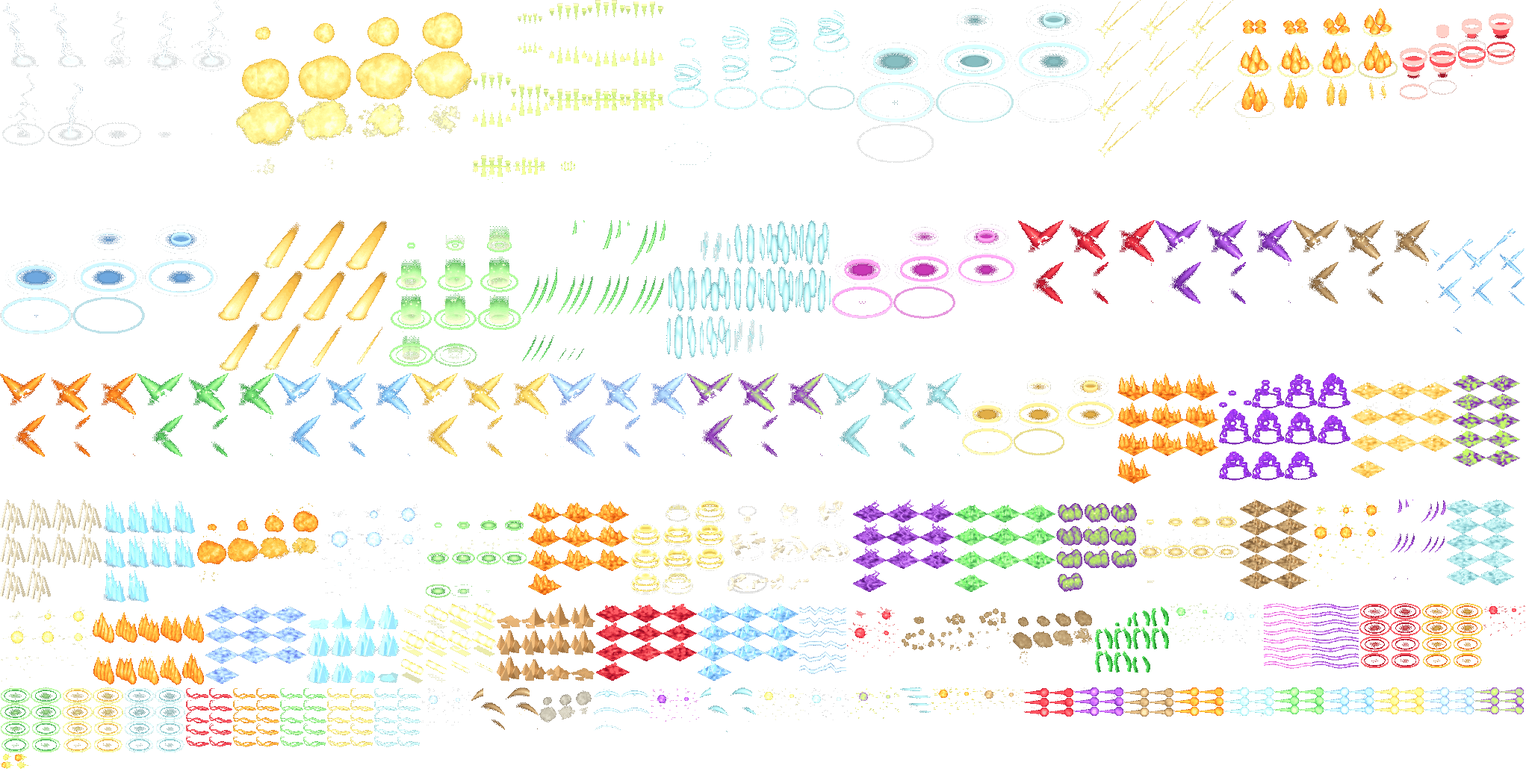
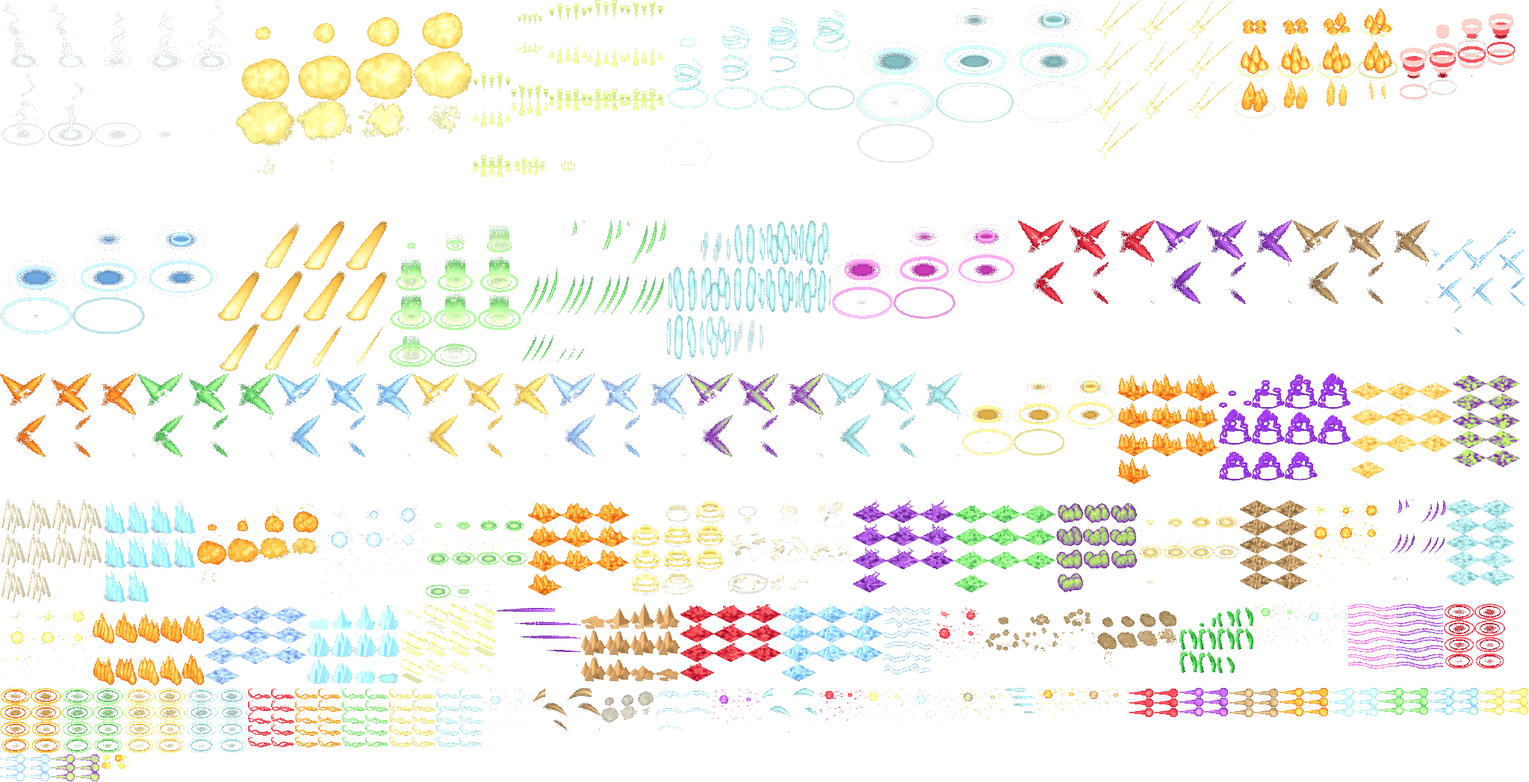
A blink that strikes: its rendered streak, fitted to the hop, and the crossed cut on the foe
Claude-Session: https://claude.ai/code/session_01RRJtWnKv3aqtC5Z8HqXpVz

diff --git a/src/render/blenderFxData.ts b/src/render/blenderFxData.ts
@@ -7,27 +7,27 @@ import type { BfxClip } from './blenderFxRules';
 export const BFX_DENSITY = 45;
 export const BFX_GLOW_SHRINK = 4;
 /** The hard pixel atlases' sizes, then the soft glow atlases' (`px-<n>.webp`, `soft-<n>.webp`). */
-export const BFX_PX: readonly (readonly [number, number])[] = [[2045, 2045], [2043, 1041], [1208, 1240], [1076, 1140], [938, 563], [990, 978], [364, 451], [935, 806], [1900, 1768], [1016, 691], [994, 778], [316, 280], [1016, 1019], [837, 717], [913, 1022], [923, 937], [1005, 700], [1176, 1280], [1164, 996], [873, 563], [1008, 1200], [1156, 1128], [979, 716], [1018, 822], [987, 641], [1023, 821], [919, 810], [874, 926], [277, 220], [754, 896], [991, 893], [983, 907], [919, 509], [817, 817], [918, 856], [980, 813], [802, 799], [842, 1009], [991, 950], [689, 569], [1065, 954], [881, 584], [976, 1003], [286, 217], [1023, 809], [605, 505], [987, 993], [286, 196], [977, 957], [781, 906], [451, 430], [781, 941], [802, 644], [1010, 846], [906, 993], [1076, 1048], [980, 738], [935, 994], [824, 496], [1328, 1540], [974, 954], [891, 782], [325, 274], [982, 895], [253, 220], [982, 936], [992, 776], [1280, 1100], [888, 926], [999, 809], [1020, 1011], [813, 223], [1018, 1022], [427, 136], [1024, 1018], [650, 226], [1016, 1015], [373, 145], [1019, 991], [443, 148], [1013, 1020], [358, 213], [1015, 1018], [357, 124], [1003, 1006], [960, 208], [1021, 1023], [424, 145], [1001, 1008], [650, 226], [136, 112]];
+export const BFX_PX: readonly (readonly [number, number])[] = [[2045, 2045], [2047, 1047], [1208, 1240], [1076, 1140], [938, 563], [990, 978], [364, 451], [935, 806], [1900, 1768], [1016, 691], [994, 778], [316, 280], [1016, 1019], [837, 717], [913, 1022], [923, 937], [1005, 700], [1176, 1280], [1164, 996], [873, 563], [1008, 1200], [1156, 1128], [979, 716], [1018, 822], [987, 641], [1023, 821], [919, 810], [874, 926], [277, 220], [754, 896], [991, 893], [983, 907], [919, 509], [817, 817], [918, 856], [980, 813], [802, 799], [842, 1009], [991, 950], [689, 569], [1065, 954], [881, 584], [976, 1003], [286, 217], [1023, 809], [605, 505], [987, 993], [286, 196], [977, 957], [781, 906], [451, 430], [781, 941], [802, 644], [1010, 846], [906, 993], [1076, 1048], [980, 738], [935, 994], [824, 496], [1328, 1540], [974, 954], [891, 782], [325, 274], [982, 895], [253, 220], [982, 936], [992, 776], [1280, 1100], [888, 926], [999, 809], [1020, 1011], [813, 223], [1018, 1022], [427, 136], [1024, 1018], [650, 226], [1016, 1015], [373, 145], [1019, 991], [443, 148], [1013, 1020], [358, 213], [1015, 1018], [357, 124], [1003, 1006], [960, 208], [1021, 1023], [424, 145], [1001, 1008], [650, 226], [136, 112]];
 export const BFX_SOFT: readonly (readonly [number, number])[] = [[2045, 1439]];
 /** The pixel atlases every fight may need (the spells, the ground loops): loaded up front. The rest are loaded when a fight needs them. */
 export const BFX_CORE: readonly number[] = [0, 1];
 
 export const BFX_CLIPS: Readonly<Record<string, BfxClip>> = {
-  'arc-bolt': {"a": 1, "x": 1070, "y": 808, "w": 63, "h": 16, "n": 6, "cols": 1, "ax": 31.5, "ay": 8.4, "ms": 420, "loop": true, "hold": 0, "layer": "over", "el": "lightning"},
-  'arc-charm': {"a": 1, "x": 1692, "y": 808, "w": 63, "h": 11, "n": 8, "cols": 1, "ax": 31.5, "ay": 5.4, "ms": 640, "loop": true, "hold": 0, "layer": "over", "el": "arcane"},
-  'arc-hex': {"a": 1, "x": 1756, "y": 808, "w": 63, "h": 11, "n": 8, "cols": 1, "ax": 31.5, "ay": 5.4, "ms": 640, "loop": true, "hold": 0, "layer": "over", "el": "shadow"},
+  'arc-bolt': {"a": 1, "x": 1183, "y": 808, "w": 63, "h": 16, "n": 6, "cols": 1, "ax": 31.5, "ay": 8.4, "ms": 420, "loop": true, "hold": 0, "layer": "over", "el": "lightning"},
+  'arc-charm': {"a": 1, "x": 1805, "y": 808, "w": 63, "h": 11, "n": 8, "cols": 1, "ax": 31.5, "ay": 5.4, "ms": 640, "loop": true, "hold": 0, "layer": "over", "el": "arcane"},
+  'arc-hex': {"a": 1, "x": 1869, "y": 808, "w": 63, "h": 11, "n": 8, "cols": 1, "ax": 31.5, "ay": 5.4, "ms": 640, "loop": true, "hold": 0, "layer": "over", "el": "shadow"},
   'aura-eclipse': {"a": 0, "x": 501, "y": 556, "w": 93, "h": 146, "n": 10, "cols": 4, "ax": 48.0, "ay": 123.8, "ms": 1200, "loop": true, "hold": 0, "layer": "over", "el": "shadow"},
-  'aura-pool-blood': {"a": 1, "x": 1820, "y": 808, "w": 41, "h": 22, "n": 8, "cols": 2, "ax": 20.5, "ay": 12.0, "ms": 1600, "loop": true, "hold": 0, "layer": "ground", "el": "blood"},
-  'aura-pool-fire': {"a": 1, "x": 1903, "y": 808, "w": 41, "h": 22, "n": 8, "cols": 2, "ax": 20.5, "ay": 12.0, "ms": 1600, "loop": true, "hold": 0, "layer": "ground", "el": "fire"},
-  'aura-pool-forest': {"a": 1, "x": 0, "y": 921, "w": 41, "h": 22, "n": 8, "cols": 2, "ax": 20.5, "ay": 12.0, "ms": 1600, "loop": true, "hold": 0, "layer": "ground", "el": "forest"},
-  'aura-pool-light': {"a": 1, "x": 83, "y": 921, "w": 41, "h": 22, "n": 8, "cols": 2, "ax": 20.5, "ay": 12.0, "ms": 1600, "loop": true, "hold": 0, "layer": "ground", "el": "holy"},
-  'aura-pool-wind': {"a": 1, "x": 166, "y": 921, "w": 41, "h": 22, "n": 8, "cols": 2, "ax": 20.5, "ay": 12.0, "ms": 1600, "loop": true, "hold": 0, "layer": "ground", "el": "wind"},
+  'aura-pool-blood': {"a": 1, "x": 1933, "y": 808, "w": 41, "h": 22, "n": 8, "cols": 2, "ax": 20.5, "ay": 12.0, "ms": 1600, "loop": true, "hold": 0, "layer": "ground", "el": "blood"},
+  'aura-pool-fire': {"a": 1, "x": 0, "y": 921, "w": 41, "h": 22, "n": 8, "cols": 2, "ax": 20.5, "ay": 12.0, "ms": 1600, "loop": true, "hold": 0, "layer": "ground", "el": "fire"},
+  'aura-pool-forest': {"a": 1, "x": 83, "y": 921, "w": 41, "h": 22, "n": 8, "cols": 2, "ax": 20.5, "ay": 12.0, "ms": 1600, "loop": true, "hold": 0, "layer": "ground", "el": "forest"},
+  'aura-pool-light': {"a": 1, "x": 166, "y": 921, "w": 41, "h": 22, "n": 8, "cols": 2, "ax": 20.5, "ay": 12.0, "ms": 1600, "loop": true, "hold": 0, "layer": "ground", "el": "holy"},
+  'aura-pool-wind': {"a": 1, "x": 249, "y": 921, "w": 41, "h": 22, "n": 8, "cols": 2, "ax": 20.5, "ay": 12.0, "ms": 1600, "loop": true, "hold": 0, "layer": "ground", "el": "wind"},
   'aura-spirits': {"a": 0, "x": 439, "y": 0, "w": 145, "h": 136, "n": 12, "cols": 3, "ax": 72.0, "ay": 116.4, "ms": 1300, "loop": true, "hold": 0, "layer": "over", "el": "wind"},
-  'aura-wisp-blood': {"a": 1, "x": 249, "y": 921, "w": 31, "h": 16, "n": 10, "cols": 2, "ax": 11.0, "ay": 21.0, "ms": 800, "loop": true, "hold": 0, "layer": "over", "el": "blood"},
-  'aura-wisp-fire': {"a": 1, "x": 312, "y": 921, "w": 31, "h": 16, "n": 10, "cols": 2, "ax": 11.0, "ay": 21.0, "ms": 800, "loop": true, "hold": 0, "layer": "over", "el": "fire"},
-  'aura-wisp-forest': {"a": 1, "x": 375, "y": 921, "w": 31, "h": 16, "n": 10, "cols": 2, "ax": 11.0, "ay": 21.0, "ms": 800, "loop": true, "hold": 0, "layer": "over", "el": "forest"},
-  'aura-wisp-light': {"a": 1, "x": 438, "y": 921, "w": 31, "h": 16, "n": 10, "cols": 2, "ax": 11.0, "ay": 21.0, "ms": 800, "loop": true, "hold": 0, "layer": "over", "el": "holy"},
-  'aura-wisp-wind': {"a": 1, "x": 501, "y": 921, "w": 31, "h": 16, "n": 10, "cols": 2, "ax": 11.0, "ay": 21.0, "ms": 800, "loop": true, "hold": 0, "layer": "over", "el": "wind"},
+  'aura-wisp-blood': {"a": 1, "x": 332, "y": 921, "w": 31, "h": 16, "n": 10, "cols": 2, "ax": 11.0, "ay": 21.0, "ms": 800, "loop": true, "hold": 0, "layer": "over", "el": "blood"},
+  'aura-wisp-fire': {"a": 1, "x": 395, "y": 921, "w": 31, "h": 16, "n": 10, "cols": 2, "ax": 11.0, "ay": 21.0, "ms": 800, "loop": true, "hold": 0, "layer": "over", "el": "fire"},
+  'aura-wisp-forest': {"a": 1, "x": 458, "y": 921, "w": 31, "h": 16, "n": 10, "cols": 2, "ax": 11.0, "ay": 21.0, "ms": 800, "loop": true, "hold": 0, "layer": "over", "el": "forest"},
+  'aura-wisp-light': {"a": 1, "x": 521, "y": 921, "w": 31, "h": 16, "n": 10, "cols": 2, "ax": 11.0, "ay": 21.0, "ms": 800, "loop": true, "hold": 0, "layer": "over", "el": "holy"},
+  'aura-wisp-wind': {"a": 1, "x": 584, "y": 921, "w": 31, "h": 16, "n": 10, "cols": 2, "ax": 11.0, "ay": 21.0, "ms": 800, "loop": true, "hold": 0, "layer": "over", "el": "wind"},
   'beat-appear-blood': {"a": 89, "x": 424, "y": 0, "w": 75, "h": 68, "n": 9, "cols": 3, "ax": 37.5, "ay": 48.3, "ms": 450, "loop": false, "hold": 4, "layer": "over", "el": "blood"},
   'beat-appear-dark': {"a": 78, "x": 386, "y": 774, "w": 75, "h": 65, "n": 9, "cols": 3, "ax": 37.5, "ay": 45.3, "ms": 450, "loop": false, "hold": 4, "layer": "over", "el": "shadow"},
   'beat-appear-earth': {"a": 85, "x": 0, "y": 0, "w": 75, "h": 69, "n": 9, "cols": 3, "ax": 37.5, "ay": 49.3, "ms": 450, "loop": false, "hold": 4, "layer": "over", "el": "earth"},
@@ -193,33 +193,33 @@ export const BFX_CLIPS: Readonly<Record<string, BfxClip>> = {
   'beat-snare-poison': {"a": 82, "x": 834, "y": 810, "w": 39, "h": 48, "n": 10, "cols": 4, "ax": 20.0, "ay": 35.7, "ms": 600, "loop": false, "hold": 6, "layer": "over", "el": "poison"},
   'beat-snare-wind': {"a": 87, "x": 0, "y": 0, "w": 38, "h": 48, "n": 10, "cols": 4, "ax": 19.0, "ay": 35.7, "ms": 600, "loop": false, "hold": 4, "layer": "over", "el": "wind"},
   'beat-tunnel': {"a": 84, "x": 334, "y": 852, "w": 41, "h": 49, "n": 9, "cols": 4, "ax": 20.5, "ay": 34.9, "ms": 520, "loop": false, "hold": 3, "layer": "over", "el": "earth"},
-  'death-blood': {"a": 1, "x": 1134, "y": 808, "w": 35, "h": 24, "n": 7, "cols": 2, "ax": 17.5, "ay": 28.4, "ms": 420, "loop": false, "hold": 2, "layer": "over", "el": "blood"},
-  'death-bones': {"a": 1, "x": 722, "y": 921, "w": 24, "h": 24, "n": 8, "cols": 3, "ax": 9.5, "ay": 22.6, "ms": 560, "loop": false, "hold": 3, "layer": "over", "el": "bone"},
+  'death-blood': {"a": 1, "x": 1247, "y": 808, "w": 35, "h": 24, "n": 7, "cols": 2, "ax": 17.5, "ay": 28.4, "ms": 420, "loop": false, "hold": 2, "layer": "over", "el": "blood"},
+  'death-bones': {"a": 1, "x": 805, "y": 921, "w": 24, "h": 24, "n": 8, "cols": 3, "ax": 9.5, "ay": 22.6, "ms": 560, "loop": false, "hold": 3, "layer": "over", "el": "bone"},
   'death-burn': {"a": 1, "x": 262, "y": 669, "w": 42, "h": 44, "n": 10, "cols": 4, "ax": 22.5, "ay": 48.5, "ms": 700, "loop": false, "hold": 5, "layer": "over", "el": "fire"},
   'death-light': {"a": 1, "x": 1523, "y": 669, "w": 34, "h": 40, "n": 10, "cols": 4, "ax": 17.0, "ay": 31.0, "ms": 900, "loop": false, "hold": 5, "layer": "over", "el": "holy"},
   'death-stone': {"a": 1, "x": 973, "y": 669, "w": 56, "h": 42, "n": 9, "cols": 3, "ax": 27.5, "ay": 29.4, "ms": 600, "loop": false, "hold": 4, "layer": "over", "el": "bone"},
-  'death-thud': {"a": 1, "x": 1205, "y": 808, "w": 50, "h": 32, "n": 9, "cols": 3, "ax": 25.5, "ay": 26.0, "ms": 620, "loop": false, "hold": 3, "layer": "over", "el": "earth"},
-  'ground-blood': {"a": 1, "x": 798, "y": 808, "w": 45, "h": 26, "n": 10, "cols": 3, "ax": 22.0, "ay": 15.3, "ms": 950, "loop": true, "hold": 0, "layer": "over", "el": "blood"},
+  'death-thud': {"a": 1, "x": 1318, "y": 808, "w": 50, "h": 32, "n": 9, "cols": 3, "ax": 25.5, "ay": 26.0, "ms": 620, "loop": false, "hold": 3, "layer": "over", "el": "earth"},
+  'ground-blood': {"a": 1, "x": 911, "y": 808, "w": 45, "h": 26, "n": 10, "cols": 3, "ax": 22.0, "ay": 15.3, "ms": 950, "loop": true, "hold": 0, "layer": "over", "el": "blood"},
   'ground-dark': {"a": 1, "x": 1142, "y": 669, "w": 45, "h": 31, "n": 10, "cols": 3, "ax": 22.0, "ay": 20.3, "ms": 950, "loop": true, "hold": 0, "layer": "over", "el": "shadow"},
   'ground-earth': {"a": 1, "x": 1660, "y": 669, "w": 45, "h": 24, "n": 10, "cols": 2, "ax": 22.0, "ay": 13.3, "ms": 950, "loop": true, "hold": 0, "layer": "over", "el": "earth"},
   'ground-fire': {"a": 1, "x": 707, "y": 669, "w": 45, "h": 32, "n": 10, "cols": 3, "ax": 22.0, "ay": 21.3, "ms": 950, "loop": true, "hold": 0, "layer": "over", "el": "fire"},
   'ground-forest': {"a": 1, "x": 1278, "y": 669, "w": 45, "h": 31, "n": 10, "cols": 3, "ax": 22.0, "ay": 20.3, "ms": 950, "loop": true, "hold": 0, "layer": "over", "el": "forest"},
-  'ground-ice': {"a": 1, "x": 934, "y": 808, "w": 45, "h": 26, "n": 10, "cols": 3, "ax": 22.0, "ay": 15.3, "ms": 950, "loop": true, "hold": 0, "layer": "over", "el": "ice"},
+  'ground-ice': {"a": 1, "x": 1047, "y": 808, "w": 45, "h": 26, "n": 10, "cols": 3, "ax": 22.0, "ay": 15.3, "ms": 950, "loop": true, "hold": 0, "layer": "over", "el": "ice"},
   'ground-light': {"a": 1, "x": 1809, "y": 500, "w": 45, "h": 35, "n": 10, "cols": 3, "ax": 22.0, "ay": 24.3, "ms": 950, "loop": true, "hold": 0, "layer": "over", "el": "holy", "g": {"a": 0, "x": 1794, "y": 1303, "w": 15, "h": 17, "cols": 4, "ax": 7.25, "ay": 12.58}},
   'ground-lightning': {"a": 1, "x": 275, "y": 808, "w": 45, "h": 27, "n": 10, "cols": 3, "ax": 22.0, "ay": 16.3, "ms": 950, "loop": true, "hold": 0, "layer": "over", "el": "lightning", "g": {"a": 0, "x": 1856, "y": 1303, "w": 15, "h": 17, "cols": 4, "ax": 7.25, "ay": 12.58}},
   'ground-poison': {"a": 1, "x": 1945, "y": 500, "w": 45, "h": 25, "n": 10, "cols": 2, "ax": 22.0, "ay": 14.3, "ms": 950, "loop": true, "hold": 0, "layer": "over", "el": "poison"},
   'ground-wind': {"a": 1, "x": 1937, "y": 669, "w": 45, "h": 23, "n": 10, "cols": 2, "ax": 22.0, "ay": 12.3, "ms": 950, "loop": true, "hold": 0, "layer": "over", "el": "wind"},
-  'hit-block': {"a": 1, "x": 795, "y": 921, "w": 37, "h": 23, "n": 6, "cols": 2, "ax": 18.0, "ay": 26.3, "ms": 220, "loop": false, "hold": 1, "layer": "over", "el": "ice"},
-  'hit-blow-blood': {"a": 1, "x": 1986, "y": 808, "w": 28, "h": 22, "n": 6, "cols": 2, "ax": 13.0, "ay": 23.3, "ms": 220, "loop": false, "hold": 1, "layer": "over", "el": "blood"},
-  'hit-blow-dark': {"a": 1, "x": 870, "y": 921, "w": 33, "h": 23, "n": 6, "cols": 2, "ax": 16.0, "ay": 29.3, "ms": 220, "loop": false, "hold": 1, "layer": "over", "el": "shadow"},
-  'hit-blow-earth': {"a": 1, "x": 1310, "y": 921, "w": 30, "h": 15, "n": 6, "cols": 2, "ax": 14.0, "ay": 23.3, "ms": 220, "loop": false, "hold": 1, "layer": "over", "el": "earth"},
-  'hit-blow-fire': {"a": 1, "x": 1247, "y": 921, "w": 31, "h": 19, "n": 6, "cols": 2, "ax": 16.0, "ay": 22.3, "ms": 220, "loop": false, "hold": 1, "layer": "over", "el": "fire"},
-  'hit-blow-forest': {"a": 1, "x": 1566, "y": 808, "w": 32, "h": 30, "n": 6, "cols": 2, "ax": 15.0, "ay": 25.3, "ms": 220, "loop": false, "hold": 1, "layer": "over", "el": "forest"},
-  'hit-blow-ice': {"a": 1, "x": 1631, "y": 808, "w": 30, "h": 30, "n": 6, "cols": 2, "ax": 15.0, "ay": 31.3, "ms": 220, "loop": false, "hold": 1, "layer": "over", "el": "ice"},
-  'hit-blow-light': {"a": 1, "x": 1014, "y": 921, "w": 31, "h": 22, "n": 6, "cols": 2, "ax": 15.0, "ay": 25.3, "ms": 220, "loop": false, "hold": 1, "layer": "over", "el": "holy"},
-  'hit-blow-lightning': {"a": 1, "x": 564, "y": 921, "w": 33, "h": 26, "n": 6, "cols": 2, "ax": 16.0, "ay": 30.3, "ms": 220, "loop": false, "hold": 1, "layer": "over", "el": "lightning"},
-  'hit-blow-poison': {"a": 1, "x": 1138, "y": 921, "w": 33, "h": 21, "n": 6, "cols": 2, "ax": 18.0, "ay": 26.3, "ms": 220, "loop": false, "hold": 1, "layer": "over", "el": "poison"},
-  'hit-blow-wind': {"a": 1, "x": 1077, "y": 921, "w": 30, "h": 22, "n": 6, "cols": 2, "ax": 16.0, "ay": 29.3, "ms": 220, "loop": false, "hold": 1, "layer": "over", "el": "wind"},
+  'hit-block': {"a": 1, "x": 878, "y": 921, "w": 37, "h": 23, "n": 6, "cols": 2, "ax": 18.0, "ay": 26.3, "ms": 220, "loop": false, "hold": 1, "layer": "over", "el": "ice"},
+  'hit-blow-blood': {"a": 1, "x": 1097, "y": 921, "w": 28, "h": 22, "n": 6, "cols": 2, "ax": 13.0, "ay": 23.3, "ms": 220, "loop": false, "hold": 1, "layer": "over", "el": "blood"},
+  'hit-blow-dark': {"a": 1, "x": 953, "y": 921, "w": 33, "h": 23, "n": 6, "cols": 2, "ax": 16.0, "ay": 29.3, "ms": 220, "loop": false, "hold": 1, "layer": "over", "el": "shadow"},
+  'hit-blow-earth': {"a": 1, "x": 1450, "y": 921, "w": 30, "h": 15, "n": 6, "cols": 2, "ax": 14.0, "ay": 23.3, "ms": 220, "loop": false, "hold": 1, "layer": "over", "el": "earth"},
+  'hit-blow-fire': {"a": 1, "x": 1387, "y": 921, "w": 31, "h": 19, "n": 6, "cols": 2, "ax": 16.0, "ay": 22.3, "ms": 220, "loop": false, "hold": 1, "layer": "over", "el": "fire"},
+  'hit-blow-forest': {"a": 1, "x": 1679, "y": 808, "w": 32, "h": 30, "n": 6, "cols": 2, "ax": 15.0, "ay": 25.3, "ms": 220, "loop": false, "hold": 1, "layer": "over", "el": "forest"},
+  'hit-blow-ice': {"a": 1, "x": 1744, "y": 808, "w": 30, "h": 30, "n": 6, "cols": 2, "ax": 15.0, "ay": 31.3, "ms": 220, "loop": false, "hold": 1, "layer": "over", "el": "ice"},
+  'hit-blow-light': {"a": 1, "x": 1154, "y": 921, "w": 31, "h": 22, "n": 6, "cols": 2, "ax": 15.0, "ay": 25.3, "ms": 220, "loop": false, "hold": 1, "layer": "over", "el": "holy"},
+  'hit-blow-lightning': {"a": 1, "x": 647, "y": 921, "w": 33, "h": 26, "n": 6, "cols": 2, "ax": 16.0, "ay": 30.3, "ms": 220, "loop": false, "hold": 1, "layer": "over", "el": "lightning"},
+  'hit-blow-poison': {"a": 1, "x": 1278, "y": 921, "w": 33, "h": 21, "n": 6, "cols": 2, "ax": 18.0, "ay": 26.3, "ms": 220, "loop": false, "hold": 1, "layer": "over", "el": "poison"},
+  'hit-blow-wind': {"a": 1, "x": 1217, "y": 921, "w": 30, "h": 22, "n": 6, "cols": 2, "ax": 16.0, "ay": 29.3, "ms": 220, "loop": false, "hold": 1, "layer": "over", "el": "wind"},
   'hit-cut-blood': {"a": 1, "x": 1363, "y": 295, "w": 61, "h": 56, "n": 7, "cols": 3, "ax": 30.0, "ay": 46.1, "ms": 280, "loop": false, "hold": 1, "layer": "over", "el": "blood"},
   'hit-cut-dark': {"a": 1, "x": 1547, "y": 295, "w": 61, "h": 56, "n": 7, "cols": 3, "ax": 30.0, "ay": 46.1, "ms": 280, "loop": false, "hold": 1, "layer": "over", "el": "shadow"},
   'hit-cut-earth': {"a": 1, "x": 1731, "y": 295, "w": 61, "h": 56, "n": 7, "cols": 3, "ax": 30.0, "ay": 46.1, "ms": 280, "loop": false, "hold": 1, "layer": "over", "el": "earth"},
@@ -230,17 +230,17 @@ export const BFX_CLIPS: Readonly<Record<string, BfxClip>> = {
   'hit-cut-lightning': {"a": 1, "x": 736, "y": 500, "w": 61, "h": 56, "n": 7, "cols": 3, "ax": 30.0, "ay": 46.1, "ms": 280, "loop": false, "hold": 1, "layer": "over", "el": "lightning"},
   'hit-cut-poison': {"a": 1, "x": 920, "y": 500, "w": 61, "h": 56, "n": 7, "cols": 3, "ax": 30.0, "ay": 46.1, "ms": 280, "loop": false, "hold": 1, "layer": "over", "el": "poison"},
   'hit-cut-wind': {"a": 1, "x": 1104, "y": 500, "w": 61, "h": 56, "n": 7, "cols": 3, "ax": 30.0, "ay": 46.1, "ms": 280, "loop": false, "hold": 1, "layer": "over", "el": "wind"},
-  'shot-muzzle': {"a": 1, "x": 0, "y": 1010, "w": 19, "h": 10, "n": 6, "cols": 2, "ax": 3.5, "ay": 13.4, "ms": 200, "loop": false, "hold": 1, "layer": "over", "el": "fire"},
-  'shot-orb-blood': {"a": 1, "x": 1371, "y": 921, "w": 33, "h": 13, "n": 6, "cols": 2, "ax": 27.0, "ay": 7.0, "ms": 420, "loop": true, "hold": 0, "layer": "over", "el": "blood"},
-  'shot-orb-dark': {"a": 1, "x": 1438, "y": 921, "w": 33, "h": 13, "n": 6, "cols": 2, "ax": 27.0, "ay": 6.0, "ms": 420, "loop": true, "hold": 0, "layer": "over", "el": "shadow"},
-  'shot-orb-earth': {"a": 1, "x": 1505, "y": 921, "w": 33, "h": 13, "n": 6, "cols": 2, "ax": 27.0, "ay": 7.0, "ms": 420, "loop": true, "hold": 0, "layer": "over", "el": "earth"},
-  'shot-orb-fire': {"a": 1, "x": 1572, "y": 921, "w": 33, "h": 13, "n": 6, "cols": 2, "ax": 27.0, "ay": 6.0, "ms": 420, "loop": true, "hold": 0, "layer": "over", "el": "fire"},
-  'shot-orb-forest': {"a": 1, "x": 1706, "y": 921, "w": 33, "h": 12, "n": 6, "cols": 2, "ax": 27.0, "ay": 6.0, "ms": 420, "loop": true, "hold": 0, "layer": "over", "el": "forest"},
-  'shot-orb-ice': {"a": 1, "x": 1773, "y": 921, "w": 33, "h": 12, "n": 6, "cols": 2, "ax": 27.0, "ay": 6.0, "ms": 420, "loop": true, "hold": 0, "layer": "over", "el": "ice"},
-  'shot-orb-light': {"a": 1, "x": 1840, "y": 921, "w": 33, "h": 12, "n": 6, "cols": 2, "ax": 27.0, "ay": 6.0, "ms": 420, "loop": true, "hold": 0, "layer": "over", "el": "holy"},
-  'shot-orb-lightning': {"a": 1, "x": 1907, "y": 921, "w": 33, "h": 12, "n": 6, "cols": 2, "ax": 27.0, "ay": 6.0, "ms": 420, "loop": true, "hold": 0, "layer": "over", "el": "lightning"},
-  'shot-orb-poison': {"a": 1, "x": 1974, "y": 921, "w": 33, "h": 12, "n": 6, "cols": 2, "ax": 27.0, "ay": 6.0, "ms": 420, "loop": true, "hold": 0, "layer": "over", "el": "poison"},
-  'shot-orb-wind': {"a": 1, "x": 1639, "y": 921, "w": 33, "h": 13, "n": 6, "cols": 2, "ax": 27.0, "ay": 6.0, "ms": 420, "loop": true, "hold": 0, "layer": "over", "el": "wind"},
+  'shot-muzzle': {"a": 1, "x": 134, "y": 1010, "w": 19, "h": 10, "n": 6, "cols": 2, "ax": 3.5, "ay": 13.4, "ms": 200, "loop": false, "hold": 1, "layer": "over", "el": "fire"},
+  'shot-orb-blood': {"a": 1, "x": 1511, "y": 921, "w": 33, "h": 13, "n": 6, "cols": 2, "ax": 27.0, "ay": 7.0, "ms": 420, "loop": true, "hold": 0, "layer": "over", "el": "blood"},
+  'shot-orb-dark': {"a": 1, "x": 1578, "y": 921, "w": 33, "h": 13, "n": 6, "cols": 2, "ax": 27.0, "ay": 6.0, "ms": 420, "loop": true, "hold": 0, "layer": "over", "el": "shadow"},
+  'shot-orb-earth': {"a": 1, "x": 1645, "y": 921, "w": 33, "h": 13, "n": 6, "cols": 2, "ax": 27.0, "ay": 7.0, "ms": 420, "loop": true, "hold": 0, "layer": "over", "el": "earth"},
+  'shot-orb-fire': {"a": 1, "x": 1712, "y": 921, "w": 33, "h": 13, "n": 6, "cols": 2, "ax": 27.0, "ay": 6.0, "ms": 420, "loop": true, "hold": 0, "layer": "over", "el": "fire"},
+  'shot-orb-forest': {"a": 1, "x": 1846, "y": 921, "w": 33, "h": 12, "n": 6, "cols": 2, "ax": 27.0, "ay": 6.0, "ms": 420, "loop": true, "hold": 0, "layer": "over", "el": "forest"},
+  'shot-orb-ice': {"a": 1, "x": 1913, "y": 921, "w": 33, "h": 12, "n": 6, "cols": 2, "ax": 27.0, "ay": 6.0, "ms": 420, "loop": true, "hold": 0, "layer": "over", "el": "ice"},
+  'shot-orb-light': {"a": 1, "x": 1980, "y": 921, "w": 33, "h": 12, "n": 6, "cols": 2, "ax": 27.0, "ay": 6.0, "ms": 420, "loop": true, "hold": 0, "layer": "over", "el": "holy"},
+  'shot-orb-lightning': {"a": 1, "x": 0, "y": 1010, "w": 33, "h": 12, "n": 6, "cols": 2, "ax": 27.0, "ay": 6.0, "ms": 420, "loop": true, "hold": 0, "layer": "over", "el": "lightning"},
+  'shot-orb-poison': {"a": 1, "x": 67, "y": 1010, "w": 33, "h": 12, "n": 6, "cols": 2, "ax": 27.0, "ay": 6.0, "ms": 420, "loop": true, "hold": 0, "layer": "over", "el": "poison"},
+  'shot-orb-wind': {"a": 1, "x": 1779, "y": 921, "w": 33, "h": 13, "n": 6, "cols": 2, "ax": 27.0, "ay": 6.0, "ms": 420, "loop": true, "hold": 0, "layer": "over", "el": "wind"},
   'shot-tracer': {"a": 0, "x": 2011, "y": 556, "w": 33, "h": 5, "n": 6, "cols": 1, "ax": 30.5, "ay": 3.0, "ms": 420, "loop": true, "hold": 0, "layer": "over", "el": "holy"},
   'spell-blink-cast': {"a": 0, "x": 1785, "y": 0, "w": 58, "h": 68, "n": 14, "cols": 4, "ax": 28.5, "ay": 61.3, "ms": 980, "loop": false, "hold": 3, "layer": "over", "el": "arcane"},
   'spell-bonewall-stand': {"a": 1, "x": 0, "y": 669, "w": 34, "h": 46, "n": 10, "cols": 4, "ax": 17.0, "ay": 36.8, "ms": 900, "loop": true, "hold": 0, "layer": "over", "el": "bone"},
@@ -274,7 +274,7 @@ export const BFX_CLIPS: Readonly<Record<string, BfxClip>> = {
   'spell-poison-cast': {"a": 0, "x": 802, "y": 1784, "w": 65, "h": 62, "n": 12, "cols": 3, "ax": 25.0, "ay": 52.9, "ms": 780, "loop": false, "hold": 5, "layer": "over", "el": "poison"},
   'spell-poison-stand': {"a": 1, "x": 1414, "y": 669, "w": 36, "h": 31, "n": 10, "cols": 3, "ax": 15.0, "ay": 24.8, "ms": 900, "loop": true, "hold": 0, "layer": "over", "el": "poison"},
   'spell-quake-cast': {"a": 0, "x": 875, "y": 0, "w": 148, "h": 89, "n": 16, "cols": 3, "ax": 74.5, "ay": 53.5, "ms": 1200, "loop": false, "hold": 7, "layer": "ground", "el": "earth"},
-  'spell-quake-hit': {"a": 1, "x": 665, "y": 808, "w": 33, "h": 35, "n": 12, "cols": 4, "ax": 18.5, "ay": 24.9, "ms": 780, "loop": false, "hold": 4, "layer": "over", "el": "earth"},
+  'spell-quake-hit': {"a": 1, "x": 778, "y": 808, "w": 33, "h": 35, "n": 12, "cols": 4, "ax": 18.5, "ay": 24.9, "ms": 780, "loop": false, "hold": 4, "layer": "over", "el": "earth"},
   'spell-raisedead-cast': {"a": 0, "x": 1482, "y": 1021, "w": 95, "h": 93, "n": 14, "cols": 4, "ax": 47.5, "ay": 69.8, "ms": 980, "loop": false, "hold": 8, "layer": "over", "el": "shadow"},
   'spell-raisedead-hit': {"a": 0, "x": 1863, "y": 1418, "w": 59, "h": 56, "n": 12, "cols": 3, "ax": 29.5, "ay": 41.7, "ms": 780, "loop": false, "hold": 7, "layer": "over", "el": "shadow"},
   'spell-rally-cast': {"a": 0, "x": 1156, "y": 1418, "w": 143, "h": 75, "n": 12, "cols": 3, "ax": 71.0, "ay": 38.5, "ms": 780, "loop": false, "hold": 4, "layer": "ground", "el": "fire"},
@@ -290,7 +290,7 @@ export const BFX_CLIPS: Readonly<Record<string, BfxClip>> = {
   'spell-smite-cast': {"a": 1, "x": 1288, "y": 500, "w": 69, "h": 37, "n": 12, "cols": 3, "ax": 34.0, "ay": 19.0, "ms": 780, "loop": false, "hold": 3, "layer": "ground", "el": "holy", "g": {"a": 0, "x": 1529, "y": 1303, "w": 23, "h": 14, "cols": 3, "ax": 11.5, "ay": 6.75}},
   'spell-smite-hit': {"a": 0, "x": 0, "y": 0, "w": 73, "h": 185, "n": 14, "cols": 6, "ax": 36.5, "ay": 166.4, "ms": 980, "loop": false, "hold": 7, "layer": "over", "el": "holy", "g": {"a": 0, "x": 650, "y": 748, "w": 36, "h": 58, "cols": 5, "ax": 17.88, "ay": 47.35}},
   'spell-snare-cast': {"a": 0, "x": 1586, "y": 1418, "w": 69, "h": 74, "n": 14, "cols": 4, "ax": 31.0, "ay": 53.2, "ms": 980, "loop": false, "hold": 8, "layer": "over", "el": "forest"},
-  'spell-snare-hit': {"a": 1, "x": 1465, "y": 808, "w": 25, "h": 31, "n": 12, "cols": 4, "ax": 12.0, "ay": 24.1, "ms": 780, "loop": false, "hold": 7, "layer": "over", "el": "forest"},
+  'spell-snare-hit': {"a": 1, "x": 1578, "y": 808, "w": 25, "h": 31, "n": 12, "cols": 4, "ax": 12.0, "ay": 24.1, "ms": 780, "loop": false, "hold": 7, "layer": "over", "el": "forest"},
   'spell-starfall-fly': {"a": 1, "x": 1465, "y": 0, "w": 62, "h": 54, "n": 10, "cols": 3, "ax": 13.5, "ay": 39.4, "ms": 900, "loop": true, "hold": 0, "layer": "over", "el": "holy", "g": {"a": 0, "x": 1035, "y": 934, "w": 36, "h": 32, "cols": 3, "ax": 17.88, "ay": 21.84}},
   'spell-starfall-land': {"a": 1, "x": 316, "y": 0, "w": 79, "h": 67, "n": 14, "cols": 4, "ax": 34.5, "ay": 55.6, "ms": 980, "loop": false, "hold": 7, "layer": "over", "el": "holy", "g": {"a": 0, "x": 832, "y": 748, "w": 46, "h": 33, "cols": 3, "ax": 22.62, "ay": 19.9}},
   'spell-sunbeam-cast': {"a": 1, "x": 292, "y": 295, "w": 57, "h": 68, "n": 12, "cols": 4, "ax": 14.5, "ay": 59.9, "ms": 780, "loop": false, "hold": 6, "layer": "over", "el": "holy", "g": {"a": 0, "x": 206, "y": 748, "w": 48, "h": 44, "cols": 3, "ax": 23.62, "ay": 29.24}},
@@ -300,11 +300,12 @@ export const BFX_CLIPS: Readonly<Record<string, BfxClip>> = {
   'spell-warcry-cast': {"a": 0, "x": 719, "y": 1021, "w": 113, "h": 94, "n": 14, "cols": 4, "ax": 56.5, "ay": 77.6, "ms": 980, "loop": false, "hold": 6, "layer": "over", "el": "blood"},
   'spell-warcry-hit': {"a": 1, "x": 1873, "y": 0, "w": 39, "h": 53, "n": 12, "cols": 4, "ax": 19.5, "ay": 48.7, "ms": 780, "loop": false, "hold": 5, "layer": "over", "el": "blood"},
   'spell-wolves-cast': {"a": 1, "x": 699, "y": 295, "w": 48, "h": 63, "n": 12, "cols": 4, "ax": 22.5, "ay": 56.4, "ms": 780, "loop": false, "hold": 4, "layer": "over", "el": "forest"},
-  'spell-wolves-hit': {"a": 1, "x": 1356, "y": 808, "w": 27, "h": 32, "n": 12, "cols": 4, "ax": 15.0, "ay": 30.0, "ms": 780, "loop": false, "hold": 5, "layer": "over", "el": "earth"},
-  'swing-blade': {"a": 1, "x": 937, "y": 921, "w": 38, "h": 23, "n": 6, "cols": 2, "ax": 18.5, "ay": 23.5, "ms": 240, "loop": false, "hold": 1, "layer": "over", "el": "wind"},
+  'spell-wolves-hit': {"a": 1, "x": 1469, "y": 808, "w": 27, "h": 32, "n": 12, "cols": 4, "ax": 15.0, "ay": 30.0, "ms": 780, "loop": false, "hold": 5, "layer": "over", "el": "earth"},
+  'swing-blade': {"a": 1, "x": 1020, "y": 921, "w": 38, "h": 23, "n": 6, "cols": 2, "ax": 18.5, "ay": 23.5, "ms": 240, "loop": false, "hold": 1, "layer": "over", "el": "wind"},
   'swing-claw': {"a": 1, "x": 1854, "y": 669, "w": 41, "h": 40, "n": 6, "cols": 2, "ax": 21.5, "ay": 31.3, "ms": 260, "loop": false, "hold": 1, "layer": "over", "el": "shadow"},
-  'swing-heavy': {"a": 1, "x": 631, "y": 921, "w": 45, "h": 19, "n": 7, "cols": 2, "ax": 22.5, "ay": 26.2, "ms": 290, "loop": false, "hold": 1, "layer": "over", "el": "earth"},
-  'swing-thrust': {"a": 1, "x": 1205, "y": 921, "w": 41, "h": 10, "n": 6, "cols": 1, "ax": 18.5, "ay": 16.3, "ms": 200, "loop": false, "hold": 1, "layer": "over", "el": "wind"},
+  'swing-dash': {"a": 1, "x": 665, "y": 808, "w": 112, "h": 18, "n": 6, "cols": 1, "ax": 50.5, "ay": 23.5, "ms": 220, "loop": false, "hold": 1, "layer": "over", "el": "shadow"},
+  'swing-heavy': {"a": 1, "x": 714, "y": 921, "w": 45, "h": 19, "n": 7, "cols": 2, "ax": 22.5, "ay": 26.2, "ms": 290, "loop": false, "hold": 1, "layer": "over", "el": "earth"},
+  'swing-thrust': {"a": 1, "x": 1345, "y": 921, "w": 41, "h": 10, "n": 6, "cols": 1, "ax": 18.5, "ay": 16.3, "ms": 200, "loop": false, "hold": 1, "layer": "over", "el": "wind"},
   'ult-arcBlade-aftermath': {"a": 10, "x": 377, "y": 0, "w": 96, "h": 121, "n": 9, "cols": 4, "ax": 50.5, "ay": 87.6, "ms": 1600, "loop": false, "hold": 4, "layer": "over", "el": "lightning", "cuts": [[0, 7], [1, 8]], "sc": ["crack", "bolt"], "g": {"a": 0, "x": 1790, "y": 934, "w": 39, "h": 37, "cols": 3, "ax": 19.38, "ay": 25.4}},
   'ult-arcBlade-strike': {"a": 10, "x": 0, "y": 0, "w": 94, "h": 108, "n": 13, "cols": 4, "ax": 46.5, "ay": 85.5, "ms": 1300, "loop": false, "hold": 4, "layer": "over", "el": "lightning", "cuts": [[0, 8], [3, 12]], "sc": ["bolt", "cross"], "at": "each", "g": {"a": 0, "x": 972, "y": 748, "w": 40, "h": 38, "cols": 4, "ax": 19.88, "ay": 25.87}},
   'ult-arcBlade-windup': {"a": 10, "x": 657, "y": 433, "w": 84, "h": 100, "n": 12, "cols": 4, "ax": 43.0, "ay": 79.2, "ms": 1700, "loop": false, "hold": 6, "layer": "over", "el": "lightning", "cuts": [[0, 11], [2, 11]], "sc": ["spiral", "bolt"], "g": {"a": 0, "x": 1909, "y": 934, "w": 32, "h": 36, "cols": 4, "ax": 16.0, "ay": 26.31}},

diff --git a/src/render/fx.ts b/src/render/fx.ts
@@ -77,7 +77,7 @@ import { AREA_PAINT, SNARE, type AreaPaint, AURA_ALPHA, AURA_ALPHA_OF, AURA_MOTE
 import { SLASH_HOP_MS, type WallKind } from '../sim/toolkit';
 import { loadSpellArt, spellFrames } from './spellArt';
 import { bfxFrames, bfxGlows, loadBlenderFx, warmBfx } from './blenderFxArt';
-import { hitSpark, swingClip, deathClip, GUN, shotClip, SHOT_ORB_SIZE, ARC_STRAND, strandLay, type HitKind, BFX_FADE_MS, BFX_FLY_FROM, BFX_FLY_MS, BFX_GLOW_ALPHA, BFX_LINE_GLOW, BFX_GLOW_SCALE, BFX_SCALE, BFX_WALL_SPELL, SPELL_LAY, SPELL_STANDS, ULT_BFX, ZONE_BFX, bfxAlpha, bfxCentre, BEAT_OWN, ultPlace, ultSpots, ultLinked, ultLinkClip, ULT_LASTS, lineRun, ULT_EXTRA, ULT_EXTRA_AT, touchDelay, ULT_LINK_MS, beatBfx, beatLine, BEAT_LINE, type BeatClip, ultBfx, type UltStageName, bfxBox, bfxBudget, bfxClip, bfxFrame, bfxLife, groundBfx, spellBfx, standPhase, type SpellPartName } from './blenderFxRules';
+import { hitSpark, blinkCut, swingClip, deathClip, GUN, shotClip, SHOT_ORB_SIZE, ARC_STRAND, strandLay, type HitKind, BFX_FADE_MS, BFX_FLY_FROM, BFX_FLY_MS, BFX_GLOW_ALPHA, BFX_LINE_GLOW, BFX_GLOW_SCALE, BFX_SCALE, BFX_WALL_SPELL, SPELL_LAY, SPELL_STANDS, ULT_BFX, ZONE_BFX, bfxAlpha, bfxCentre, BEAT_OWN, ultPlace, ultSpots, ultLinked, ultLinkClip, ULT_LASTS, lineRun, ULT_EXTRA, ULT_EXTRA_AT, touchDelay, ULT_LINK_MS, beatBfx, beatLine, BEAT_LINE, type BeatClip, ultBfx, type UltStageName, bfxBox, bfxBudget, bfxClip, bfxFrame, bfxLife, groundBfx, spellBfx, standPhase, type SpellPartName } from './blenderFxRules';
 import { boostedScale, burstPart, epicEvent, KIT, ultScale, ULT_EPIC } from '../ultEpicRules';
 import { ultWeight } from '../ultStageRules';
 import { SHOWCASES } from '../ultShowRules';
@@ -702,22 +702,22 @@ export class Fx {
   }
 
   /** A small quick clip on a fighter, its middle at (x, y) (a hit's spark, a swing's stroke): for the rule's brief flash it is over the
-   *  body as it is, then it goes on under the ON-FIGHTER rule. `turn` turns it and `mirror` flips it (a stroke to the left). False
-   *  when the clip is not held. */
-  private bfxFlash(key: string, x: number, y: number, size: number, ms: number, turn = 0, mirror = false): boolean {
+   *  body as it is, then it goes on under the ON-FIGHTER rule. `turn` turns it and `mirror` flips it (a stroke to the left); `stretch`
+   *  lengthens it along its own line, and it waits `delay` ms. False when the clip is not held. */
+  private bfxFlash(key: string, x: number, y: number, size: number, ms: number, turn = 0, mirror = false, stretch = 1, delay = 0): boolean {
     const c = bfxClip(key);
     const frames = bfxFrames(key);
     if (!c || !frames.length) return false;
     const scale = BFX_SCALE * size;
     const per = ms / frames.length;
-    const pose = { x, y, scale, ...(turn ? { rotation: turn } : {}), ...(mirror ? { stretchX: -1 } : {}) };
+    const pose = { x, y, scale, ...(turn ? { rotation: turn } : {}), ...(mirror || stretch !== 1 ? { stretchX: (mirror ? -1 : 1) * stretch } : {}), ...(delay ? { delay } : {}) };
     if (this.reduced) {
       this.particles.spawn({ ...pose, frames: [frames[c.hold]], frameMs: ms, life: ms, prio: true, bare: true });
       return true;
     }
     const first = Math.max(1, Math.min(frames.length - 1, Math.round(UNDER.FLASH_MS / per)));
     this.particles.spawn({ ...pose, frames: frames.slice(0, first), frameMs: per, life: first * per, prio: true, solid: true, bare: true });
-    this.particles.spawn({ ...pose, frames: frames.slice(first), frameMs: per, life: (frames.length - first) * per, delay: first * per, prio: true });
+    this.particles.spawn({ ...pose, frames: frames.slice(first), frameMs: per, life: (frames.length - first) * per, delay: delay + first * per, prio: true });
     return true;
   }
 
@@ -3106,6 +3106,20 @@ export class Fx {
     }, (d) => this.groundRow(d), look);
   }
 
+  /** A blink that strikes, rendered (`BLINK_CUT`): the blade's streak from (x0, y0) to (x1, y1), fitted to the hop, and the crossed
+   *  cut on the foe at (fx, fy) a moment after, both after `delay`. False when the clips are not held: the painted ones play. */
+  private bfxBlinkCut(x0: number, y0: number, x1: number, y1: number, fx: number, fy: number, delay: number): boolean {
+    const look = blinkCut();
+    const c = look ? bfxClip(look.streak) : undefined;
+    if (!look || !c || !bfxFrames(look.streak).length || !bfxFrames(look.cut).length) return false;
+    const lay = strandLay(x0, y0, x1, y1, c.w * BFX_SCALE, look.STRETCH);
+    // (a streak to the left is mirrored and turned the other way about, so its sparks still fall downwards)
+    const left = x1 < x0;
+    for (const p of lay.at) this.bfxFlash(look.streak, p.x, p.y, 1, look.ms, left ? lay.turn - Math.PI : lay.turn, left, lay.stretch, delay);
+    this.bfxFlash(look.cut, fx, fy, look.CUT_SIZE, look.CUT_MS, 0, false, 1, delay + look.CUT_LAG);
+    return true;
+  }
+
   /** A dash leaves a streak between the tiles; a blink a puff of smoke at each end. */
   private streak(b: Battle, e: Extract<BattleEvent, { kind: 'dash' | 'blink' }>, slash?: Slash): void {
     const by = this.sprites.get(e.by);
@@ -3119,7 +3133,7 @@ export class Fx {
       this.paintOnce(PAINT.blinkOut, x0, y0 - lift, { delay });
       this.paintOnce(PAINT.blinkIn, x1, y1 - lift, { delay: delay + 60 });
       const foe = slash && this.sprites.get(slash.struck);
-      if (foe) {
+      if (foe && !this.bfxBlinkCut(x0, y0 - lift, x1, y1 - lift, foe.x, foe.y - foe.tall * 0.5, delay)) {
         this.paintAlong(PAINT.slash, x0, y0 - lift, x1, y1 - lift, { delay });
         this.paintOnce(PAINT.slashHit, foe.x, foe.y - foe.tall * 0.5, { delay: delay + 80 });
       }

diff --git a/src/render/blenderFxRules.ts b/src/render/blenderFxRules.ts
@@ -310,10 +310,10 @@ export const ARC_STRAND: Readonly<Record<'lightning' | 'charm' | 'hex', string>>
 /** How far a strand's clip may be stretched or squeezed along its length before it is laid as more (or fewer) lengths end to end. */
 export const STRAND_STRETCH = 1.35;
 /** A strand of clips of length `own` (world px) laid from (x0, y0) to (x1, y1): how it is turned, how many lengths lie end to
- *  end, how far each is stretched along the line (never beyond `STRAND_STRETCH`), and each length's middle. */
-export function strandLay(x0: number, y0: number, x1: number, y1: number, own: number): { turn: number; stretch: number; at: { x: number; y: number }[] } {
+ *  end, how far each is stretched along the line (never beyond `most`, `STRAND_STRETCH` when not given), and each length's middle. */
+export function strandLay(x0: number, y0: number, x1: number, y1: number, own: number, most: number = STRAND_STRETCH): { turn: number; stretch: number; at: { x: number; y: number }[] } {
   const len = Math.hypot(x1 - x0, y1 - y0);
-  const n = Math.max(1, Math.ceil(len / (own * STRAND_STRETCH)));
+  const n = Math.max(1, Math.ceil(len / (own * most)));
   const at = Array.from({ length: n }, (_, i) => ({ x: x0 + ((x1 - x0) * (i + 0.5)) / n, y: y0 + ((y1 - y0) * (i + 0.5)) / n }));
   return { turn: Math.atan2(y1 - y0, x1 - x0), stretch: len / n / own, at };
 }
@@ -335,3 +335,10 @@ export const deathClip = (kind: string): string | undefined => (BFX_CLIPS[`death
 export const GUN = { muzzle: 'shot-muzzle', tracer: 'shot-tracer', muzzleSize: 1.3, tracerSize: 1 } as const;
 /** The rendered clip a shot's missile flies as: an orb's in its element, a bullet's tracer; an arrow and a bone stay painted. */
 export const shotClip = (look: string, el: string): string | undefined => (look === 'orb' ? shotOrb(el) : look === 'tracer' && BFX_CLIPS[GUN.tracer] ? GUN.tracer : undefined);
+
+/** A blink that strikes (a teleport slash's hop): the rendered streak from where the fighter was to where it lands (`streak`, one
+ *  stroke `ms` long, fitted to the hop: stretched up to `STRETCH` of its length before a second is laid) and the crossed cut on the
+ *  foe (`cut`, `CUT_MS` long at `CUT_SIZE`, `CUT_LAG` ms after the streak sets off). */
+export const BLINK_CUT = { streak: 'swing-dash', ms: 220, STRETCH: 1.5, cut: 'hit-cut-dark', CUT_SIZE: 0.9, CUT_MS: 260, CUT_LAG: 80 } as const;
+/** The streak and the cut, or undefined where the pipeline has not made both (the painted ones play). */
+export const blinkCut = (): typeof BLINK_CUT | undefined => (BFX_CLIPS[BLINK_CUT.streak] && BFX_CLIPS[BLINK_CUT.cut] ? BLINK_CUT : undefined);

diff --git a/test/swings.test.ts b/test/swings.test.ts
@@ -2,7 +2,7 @@
 import { test } from 'node:test';
 import assert from 'node:assert/strict';
 import { readFileSync } from 'node:fs';
-import { SWING, bfxClip, deathClip, swingClip } from '../src/render/blenderFxRules';
+import { BLINK_CUT, BFX_SCALE, SWING, bfxClip, blinkCut, deathClip, strandLay, swingClip } from '../src/render/blenderFxRules';
 import { deathKind } from '../src/render/fxRules';
 import { slashOf } from '../src/render/vfxRules';
 import { BODY } from '../src/render/onFighterRules';
@@ -44,4 +44,23 @@ test('every kind of fall has its rendered clip, and a skeleton keeps its painted
   const fx = readFileSync('src/render/fx.ts', 'utf8');
   assert.match(fx, /if \(kind === 'bones'\) boneBits\(this\.particles, x, y\);/);
   assert.match(fx, /\} else deathBurst\(this\.particles, kind, x, y, target\.size \?\? 1\);/);
+});
+
+test('a blink that strikes has its rendered streak, fitted to the hop, and the crossed cut on the foe; the painted ones are the fallback', () => {
+  const look = blinkCut();
+  assert.ok(look);
+  const [streak, cut] = [bfxClip(BLINK_CUT.streak)!, bfxClip(BLINK_CUT.cut)!];
+  // (both in the atlases every fight holds, and quick: the streak a long thin stroke)
+  assert.ok(streak.a <= 1 && cut.a <= 1 && BLINK_CUT.ms < 300 && BLINK_CUT.CUT_MS < 300);
+  assert.ok(streak.w > streak.h * 4);
+  // (the cut lands after the streak sets off)
+  assert.ok(BLINK_CUT.CUT_LAG > 0 && BLINK_CUT.CUT_LAG < BLINK_CUT.ms);
+  // (one stroke for a hop of up to one and a half of its length, never stretched beyond that; two for a longer one)
+  const own = streak.w * BFX_SCALE;
+  assert.equal(strandLay(0, 0, own * 1.4, 0, own, BLINK_CUT.STRETCH).at.length, 1);
+  assert.equal(strandLay(0, 0, own * 1.6, 0, own, BLINK_CUT.STRETCH).at.length, 2);
+  assert.ok(strandLay(0, 0, own * 2.9, 0, own, BLINK_CUT.STRETCH).stretch <= BLINK_CUT.STRETCH);
+  const fx = readFileSync('src/render/fx.ts', 'utf8');
+  assert.match(fx, /if \(foe && !this\.bfxBlinkCut\(x0, y0 - lift, x1, y1 - lift, foe\.x, foe\.y - foe\.tall \* 0\.5, delay\)\) \{/);
+  assert.match(fx, /this\.paintAlong\(PAINT\.slash, x0, y0 - lift, x1, y1 - lift, \{ delay \}\);/);
 });

diff --git a/test/hit-sparks.test.ts b/test/hit-sparks.test.ts
@@ -60,7 +60,7 @@ test('the renderer plays the spark, the painted one only when its clip is not he
   assert.match(fx, /const first = Math\.max\(1, Math\.min\(frames\.length - 1, Math\.round\(UNDER\.FLASH_MS \/ per\)\)\);/);
   // (the spark's two parts are now laid by `bfxFlash`, which a swing's stroke shares: the same two spawns, with a pose)
   assert.match(fx, /\.\.\.pose, frames: frames\.slice\(0, first\), frameMs: per, life: first \* per, prio: true, solid: true, bare: true \}\);/);
-  assert.match(fx, /\.\.\.pose, frames: frames\.slice\(first\), frameMs: per, life: \(frames\.length - first\) \* per, delay: first \* per, prio: true \}\);/);
+  assert.match(fx, /\.\.\.pose, frames: frames\.slice\(first\), frameMs: per, life: \(frames\.length - first\) \* per, delay: delay \+ first \* per, prio: true \}\);/);
   const parts = readFileSync('src/render/particles.ts', 'utf8');
   assert.match(parts, /const low = b\.bare \? null : this\.under\?\.\(/);
 });

diff --git a/tools/blender-fx/effects.py b/tools/blender-fx/effects.py
@@ -571,6 +571,9 @@ fx('swing-blade', 'swipe', 'wind', **box(1.3, 1.3), frames=7, skip=1, ms=240, se
 fx('swing-heavy', 'swipe', 'earth', **box(1.5, 1.5), frames=8, skip=1, ms=290, seed=761, glow=False, r=0.75, wide=0.24, bend=0.6)
 fx('swing-thrust', 'swipe', 'wind', **box(1.5, 1.0), frames=8, skip=2, ms=200, seed=762, glow=False, r=0.75, wide=0.1, bend=0.0)
 fx('swing-claw', 'claws', 'shadow', **box(1.3, 1.5), frames=7, skip=1, ms=260, seed=763, glow=False, r=0.55, z=0.55, wide=0.1)
+# A blink that strikes: the streak the blade leaves from where the fighter was to the foe (four tiles' sides long; the renderer turns
+# it and fits it to the hop), in the dark of the blink's own swirl. The crossed cut on the foe is the hit's (`hit-cut-dark`).
+fx('swing-dash', 'swipe', 'shadow', **box(2.5, 1.0), frames=8, skip=2, ms=220, seed=764, glow=False, r=2.0, wide=0.11, bend=0.03)
 # What a fighter leaves as it falls, by its kind (`deathKind`): a burning away, a heave of dust, stone breaking, a spray of blood, motes
 # of light, and the dust a skeleton's bones fall in (the bones themselves stay painted sprites).
 fx('death-burn', 'burst', 'fire', **box(1.3, 1.7), frames=10, ms=700, seed=770, glow=False, r=0.55, h=0.9, balls=4, embers=10)

diff --git a/docs/notes/swings.md b/docs/notes/swings.md
@@ -55,3 +55,20 @@ Minotaur's, the Peasant's and the Kunoichi's blows, a fall) and `docs/samples/bl
   bones' dust are judged on the clip sheet, not in a fight.
 
 `SEE=swing:knight,fall:,shot:gunslinger WATCH=1 node tools/blender-fx/ult-shots.mjs --picks ...` catches each in a fight.
+
+## Since: a blink that strikes
+
+The painted streak and crossed cut of a blink that strikes (a teleport slash's hop) are rendered too (`BLINK_CUT`, `Fx.bfxBlinkCut`):
+`swing-dash`, a long thin stroke in the dark of the blink's swirl, turned to the hop and fitted to it (`strandLay`: stretched up to
+one and a half of its length, a second laid past that), and 80 ms later the crossed cut on the foe, which is the backstab's
+(`hit-cut-dark`), so no new picture is made for it. Both go on fighters as a hit's spark does (`bfxFlash`: whole for the rule's
+150 ms, then by the ON-FIGHTER rule). The painted swirls where the fighter vanishes and appears are kept; the painted streak and
+cut play where the clips are not held.
+
+- Memory (decoded): core atlas 0 unchanged (16,728,100 bytes); core atlas 1 from 2043 x 1041 (8,507,052) to 2047 x 1047
+  (8,572,836), 65,784 bytes more. Nothing more is asked for at a fight's start.
+- Photograph: `docs/samples/blender-fx/blink-cut-before-after-393.png` (two moments of the fight's first striking blink before,
+  the same two after).
+- Verdict: the cut on the foe is now plain to see where the painted one hardly showed at this size; it is the larger gain. The
+  streak is a thin dark-violet line, right for a blade but easy to miss against dark foes. One blink on one land was
+  photographed, not each hero that blinks.
